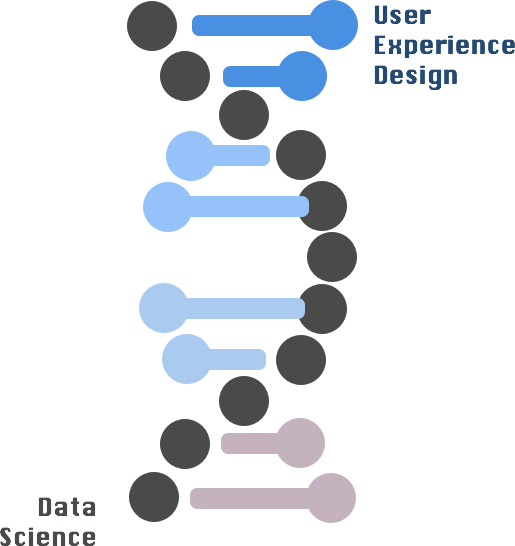
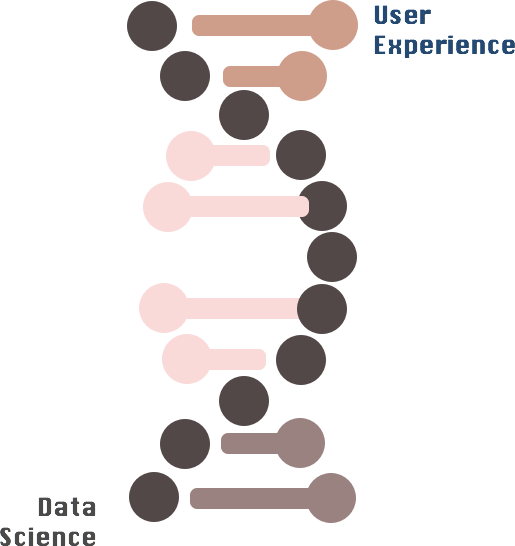
修改首頁

diff --git a/src/Pro/Pro.js b/src/Pro/Pro.js
@@ -13,12 +13,15 @@ const Container = styled.div`
 const Card = styled.div`
     display: inline-block;
     vertical-align: top;
+    min-width: 300px;
 
     p {
         text-align: right;
         margin: 20px;
         margin-right: 40px;
         font-size: 18px;
+        font-weight: bold;
+        font-family: Helvetica
     }
 `;
 
@@ -28,23 +31,23 @@ const Header = styled.div`
 
     h1 {
         margin: auto 20px;
-        margin-left: 60px;
+        margin-left: 100px;
         font-size: 36px;
         text-align: left;
         color: #545454;
+        line-height: 1;
     }
 `;
 
 const Divider = styled.div`
-    border-bottom: #F6E1C0 solid 5px;
-    margin: 0 20px;
-    margin-right: 40px;
-    margin-left: 60px;
+    border-bottom: #967E7D solid 5px;
+    width: 175px;
+    margin-left: 100px;
     margin-top: 20px;
 `;
 
 const Orange = styled.span`
-    color: #F5AF3D;
+    color: #CF9E8A;
 `;
 
 
@@ -52,7 +55,7 @@ class Pro extends Component {
 
     render() {
         return (
-            <Container>
+            <Container style={{fontFamily: 'Avenir Next'}}>
                 <Card>
                     <Header>
                         <h1>
@@ -62,9 +65,9 @@ class Pro extends Component {
                     </Header>
                     <Divider></Divider>
                     <p>
-                        Model Construction<br/>
-                        Time series data analysis<br/>
-                        Pattern Recognition
+                        Predictive Modeling<br/>
+                        Data Mining and Visualization<br/>
+                        Data and Quantative Analysis
                     </p>
                 </Card>
                 <Card>
@@ -78,16 +81,25 @@ class Pro extends Component {
                     <p>
                         Fast Prototyping<br/>
                         UI Flow Design/ Sketch<br/>
-                        Usibility/ Verification
+                        Usibility & Verification
                     </p>
                 </Card>
                 <Card>
                     <Header>
-                        <h1><Orange>Research</Orange></h1>
+                        <h1 style={{
+                            fontSize: 24,
+                            marginBottom: 0,
+                            marginLeft: 84
+                        }}><Orange>Programming</Orange></h1>
                     </Header>
-                    <Divider></Divider>
+                    <Divider style={{
+                        marginLeft: 85
+                    }}></Divider>
                     <p>
-                        Energy Comsumption
+                        Python(Proficient)<br/>
+                        Matlab(Proficient)<br/>
+                        Unity3D<br/>
+                        C++<br/>
                     </p>
                 </Card>
             </Container>

diff --git a/src/About/About.js b/src/About/About.js
@@ -28,6 +28,14 @@ const LeftDiv = styled.div`
     padding-right: 0;
     box-sizing: border-box;
 
+    .noto {
+        font-family: Noto Sans;
+    }
+
+    .bold {
+        font-weight: bold;
+    }
+
     h1 {
         font-size: 24px;
     }
@@ -64,11 +72,11 @@ class About extends Component {
                 <MidContainer className="col">
                     <LeftDiv>
                         <div style={{width: "50%", display: "inline-block"}}>
-                            <h1>
+                            <h1 className="noto bold">
                                 Yang-Ting<br/>
                                 Wei
                             </h1>
-                            <p>
+                            <p className="noto bold">
                                 mtnawei@gmail.com<br/>
                                 Taipei, Taiwan
                             </p>
@@ -79,7 +87,7 @@ class About extends Component {
                                 Proficient in designing models and algorithm to analyze human behavior.
                             </div>
                             <div className="_img">
-                                <img src={cv} alt=""/>
+                                <a href="https://drive.google.com/file/d/17gojq5MjnllI1mgUpHVNM4Hz6Bj7AgVp/view?usp=sharing"><img src={cv} alt=""/></a>
                                 <a href="https://www.facebook.com/ytmtna"><img src={facebook} alt=""/></a>
                                 <a href="https://github.com/MartinaWei"><img src={github} alt=""/></a>
                                 <a href="https://www.linkedin.com/in/yang-ting-wei-629107ab/"><img src={linkedin} alt=""/></a>

diff --git a/src/App.js b/src/App.js
@@ -31,6 +31,8 @@ const Header = styled.div`
 const LinkContainer = styled.div`
     width: 300px;
     display: inline-block;
+    position: relative;
+    left: 24%;
 
     a {
         margin: 10px;
